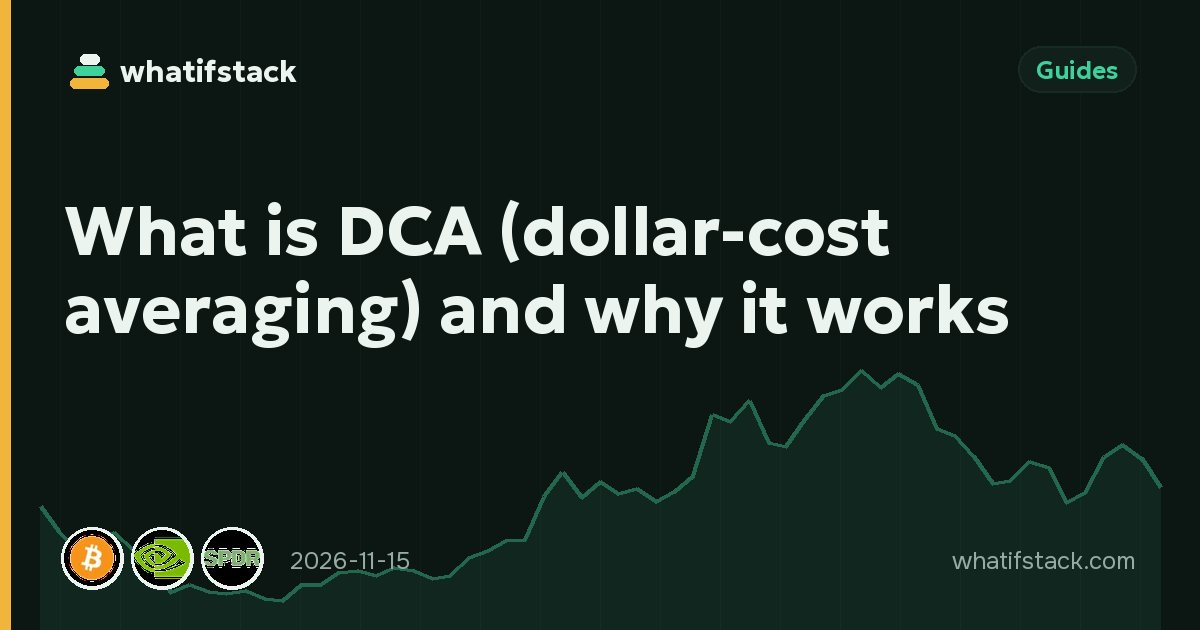
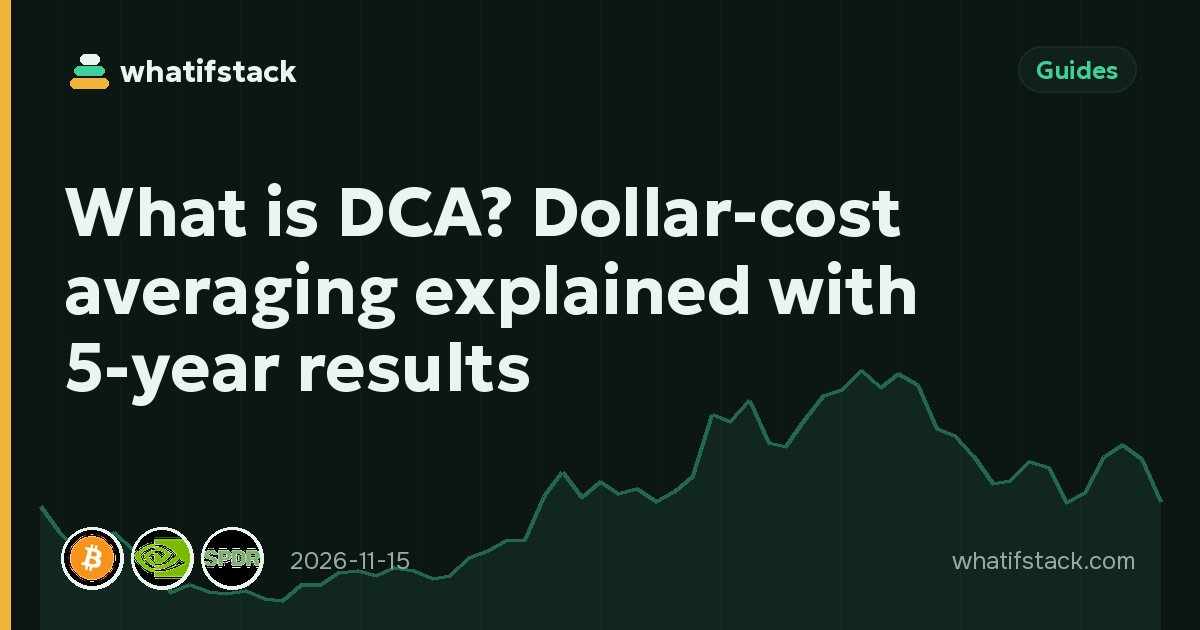
SEO: 5 pages (pt/brent, it/wti, ko/fear-and-greed-index-explained, uk/what-is-ethereum, en/what-is-dca)
Claude-Session: https://claude.ai/code/session_01Nmn9VS9XWtPb5TYGsGCjLh

Changed region(s): [[0.0308, 0.2714, 0.8633, 0.6635], [0.9558, 0.754, 0.9867, 0.7841]]

diff --git a/social/seo-log.md b/social/seo-log.md
@@ -15,8 +15,14 @@ date | url | query | impressions | position | CTR | what changed | result after 
 2026-11-24 | /es/blog/how-to-buy-bitcoin/ | como comprar bitcoin (30 / 29.3); comprar bitcoin 26 / 25.0; como comprar bitcoins 21 / 24.5; bitcoins como comprar 11 / 25.1 | 119 | 29.7 | 0 % | title + lead already match and answer → only description («Cómo comprar bitcoin (o bitcoins) en 6 pasos … desde 10 €»). Live check OK | due 2026-12-08
 2026-11-24 | /pt/blog/how-to-buy-bitcoin/ | como comprar bitcoin (shared with es); como comprar criptomoedas 8 / 29.9; melhor forma de comprar bitcoin 3 / 39.7 | 33 | 31.0 | 0 % | title + lead already match → only description («Como comprar bitcoin e outras criptomoedas em 6 passos … a partir de R$ 50»). Live check OK | due 2026-12-08
 2026-11-24 | /fr/blog/how-to-buy-bitcoin/ | acheter bitcoin (11 / 30.4); comment acheter des bitcoins 7 / 44.0; comment acheter du bitcoin 5 / 39.4; achat bitcoin 5 / 38.2 | 50 | 37.1 | 0 % | title + lead already match → only description («Comment acheter du Bitcoin en 6 étapes … dès 10 €»). Live check OK | due 2026-12-08
+2026-11-25 | /pt/brent/ (asset) | preço barril de petroleo (4 / 16.2); valor do barril de petroleo 4 / 23.0; cotação brent 4 / 38.5; preço barril petroleo hoje 3 / 11.0; brent hoje 3 / 20.3 | 95 | 43.1 | 0 % | only the asset's own pt description (data/desc/pt.json): now says «preço do barril de petróleo Brent» and «cotação do Brent hoje» + what moves it. Title/meta are template — not touched. Live check OK (chart OANDA:BCOUSD, no raw {{ }}, 390 px OK) | due 2026-12-09
+2026-11-25 | /it/wti/ (asset) | quotazione petrolio (10 / 9.1); ultima quotazione del petrolio 3 / 7.7; quotazione petrolio oggi 3 / 51.0; petrolio wti 3 / 65.7 | 53 | 39.1 | 0 % | only the asset's own it description (data/desc/it.json): starts «La quotazione del petrolio WTI è il prezzo di riferimento…» (NYMEX). Live check OK (chart OANDA:WTICOUSD, 390 px OK) | due 2026-12-09
+2026-11-25 | /ko/blog/fear-and-greed-index-explained/ | 공포탐욕지수 코인 (6 / 29.3); 코인 공포지수 2 / 29.0; 비트 코인 공포 탐욕 지수 2 / 48.0; 코인공포지수 1 / 10.0 | 49 | 36.2 | 0 % | title «코인 공포탐욕지수란? 0~100 점수 보는 법과 6가지 구성 요소», description (0~100, 6 components), lead answers in 2 sentences (bitcoin-based, 0~24 extreme fear / 75~100 extreme greed, 6 data inputs daily); new cover. Live check OK | due 2026-12-09
+2026-11-25 | /blog/what-is-ethereum/ (uk) | криптовалюта ефіріум (6 / 41.5); eth криптовалюта 5 / 50.8; ефіріум 2 / 37.5; монета ethereum 2 / 33.5 | 46 | 44.1 | 0 % | title «Криптовалюта ефіріум (Ethereum): що це таке і чим відрізняється від біткоїна», description (2015, −99,95 % energy), first sentence «Що таке криптовалюта ефіріум? … мережа, запущена у 2015 році … монета ether (ETH)»; new cover. Live check OK | due 2026-12-09
+2026-11-25 | /en/blog/what-is-dca/ | what is dca (17 / 47.5) | 17+ | 47.5 | 0 % | title «What is DCA? Dollar-cost averaging explained with 5-year results», description ($10 a day, 5 years, BTC/NVDA/S&P 500/gold), 2nd lead sentence answers why (more units when prices fall); new cover. Live check OK (table renders, no raw {{ }}) | due 2026-12-09
 
 ## Notes (not changed — template/code pages, for the owner)
+- 2026-11-25: /pt/converter/ is now 632 impr / pos 8.3 (was 486) — same junk-query pattern; /en/nvda/ 111 / 8.0 and /it/nvda/ 107 / 6.1, /ru/news/nvidia-plunges-…/ 90 / 7.9, /en/blog/nvidia-10-dollars-a-day/ 73 / 6.9 — Search Console shows (almost) no queries for them (anonymised), nothing to target. «gümüş gram euro» 84 / 25 lands on /de/converter/gram-eur/ (GRAM coin, not silver grams) — wrong intent, left alone.
 - 2026-11-24: /zh/largest-companies/dividend/ 129 impr / pos 2.1 / 0 clicks and /zh/blog/how-to-invest-in-ai-stocks/ 58 / 1.4, /zh/blog/how-much-to-invest-per-month/ 57 / 1.5 — top positions but 0 clicks; Search Console hides most of their queries (anonymised), so nothing to target yet. /pt/converter/ now 486 impr / pos 7 — same junk-query pattern as the other converter hubs.
 - 2026-11-23: converter hubs /it/ /fr/ /es/ /ru/ /ja/converter/ have the most impressions (290 / 226 / 166 / 158 / 132, pos 9–16, 0 clicks) but only for junk queries («<bank> mobile apps», operator searches) — no real demand to target.
 - 2026-11-23: /en/crypto-exchanges/ 89 impr / pos 25 («biggest / largest crypto exchanges») is noindex by the owner's choice (hidden since 2026-11-20).

diff --git a/content/blog/uk/what-is-ethereum.md b/content/blog/uk/what-is-ethereum.md
@@ -1,11 +1,11 @@
 ---
-title: Що таке Ethereum (ефіріум) і чим він відрізняється від біткоїна — простими словами
-description: Що таке Ethereum простими словами: смарт-контракти, комісії за газ, стейкінг, чим ефіріум відрізняється від біткоїна і які глибокі падіння ціни він уже пережив.
+title: Криптовалюта ефіріум (Ethereum): що це таке і чим відрізняється від біткоїна
+description: Криптовалюта ефіріум простими словами: мережа з 2015 року, смарт-контракти, газ, стейкінг (−99,95 % енергії після 2022), відмінності від біткоїна.
 date: 2026-11-16
 category: guides
 assets: eth, btc
 ---
-Що таке Ethereum простими словами? **Ethereum** (ефіріум) — це глобальна мережа, у якій працюють програми, що їх ніхто не може вимкнути. Біткоїн створювали насамперед як цифрові гроші. Ethereum задумали як спільний комп'ютер: через нього надсилають гроші, а ще запускають застосунки для обміну, позик, ігор, цифрових колекцій і стейблкоїнів.
+Що таке криптовалюта ефіріум? **Ethereum** (ефіріум) — це глобальна мережа, запущена у 2015 році, у якій працюють програми, що їх ніхто не може вимкнути, а її монета ether (ETH) — одна з найбільших криптовалют світу. Біткоїн створювали насамперед як цифрові гроші. Ethereum задумали як спільний комп'ютер: через нього надсилають гроші, а ще запускають застосунки для обміну, позик, ігор, цифрових колекцій і стейблкоїнів.
 
 Власна монета мережі називається **ether (ETH)**, або просто ефір. Один ETH зараз коштує {{price:eth}}, і, як і біткоїн, його можна поділити на дрібні частини — тож купити можна й зовсім невелику суму.
 

diff --git a/content/blog/ko/fear-and-greed-index-explained.md b/content/blog/ko/fear-and-greed-index-explained.md
@@ -1,11 +1,11 @@
 ---
-title: 코인 공포 탐욕 지수란? 측정 방식과 보는 법 총정리
-description: 코인 공포 탐욕 지수가 무엇을 측정하는지, 0~100 점수가 어떻게 계산되는지, 극단적인 수치 뒤 시장이 어떻게 움직였는지 정리합니다.
+title: 코인 공포탐욕지수란? 0~100 점수 보는 법과 6가지 구성 요소
+description: 코인 공포탐욕지수는 비트코인 시장 심리를 0~100으로 보여 줍니다. 6가지 구성 요소, 구간별 의미, 극단적 공포·탐욕 뒤 시장 흐름을 정리했습니다.
 date: 2026-11-16
 category: guides
 assets: btc, eth
 ---
-**코인 공포 탐욕 지수(Crypto Fear & Greed Index)**는 암호화폐 시장의 분위기를 0부터 100까지 하나의 숫자로 요약하려는 지표입니다. 숫자가 낮을수록 사람들이 겁을 먹은 상태, 높을수록 탐욕스러운 상태를 뜻합니다.
+**코인 공포탐욕지수(Crypto Fear & Greed Index)**는 비트코인을 중심으로 암호화폐 시장의 분위기를 0부터 100까지 하나의 숫자로 보여 주는 지표입니다. 0~24는 극단적 공포, 75~100은 극단적 탐욕을 뜻하며, 변동성·거래량·소셜 미디어 등 6가지 데이터로 매일 계산됩니다.
 
 오늘 수치는 [홈페이지]({lang}/)의 실시간 게이지에서 확인할 수 있습니다. 이 글에서는 숫자에 무엇이 들어가는지, 어떻게 읽는지, 그리고 과거 극단적인 수치 뒤에 무슨 일이 있었는지 설명합니다.
 

diff --git a/content/blog/en/what-is-dca.md b/content/blog/en/what-is-dca.md
@@ -1,11 +1,11 @@
 ---
-title: What is DCA (dollar-cost averaging) and why it works
-description: Dollar-cost averaging in plain words: how it works, pros and cons, and examples with Bitcoin, Nvidia and the S&P 500 using up-to-date numbers.
+title: What is DCA? Dollar-cost averaging explained with 5-year results
+description: What is DCA? Buying a fixed amount on a schedule, whatever the price. See what $10 a day did in 5 years in Bitcoin, Nvidia, the S&P 500 and gold.
 date: 2026-11-15
 category: guides
 assets: btc, nvda, spy
 ---
-**DCA (dollar-cost averaging)** means buying an asset for the same amount at regular intervals — daily, weekly or monthly — whatever the price.
+**DCA (dollar-cost averaging)** means buying an asset for the same amount at regular intervals — daily, weekly or monthly — whatever the price. It takes the guesswork out of timing the market: your fixed amount buys more units when prices fall and fewer when they rise.
 
 ## How it works
 
